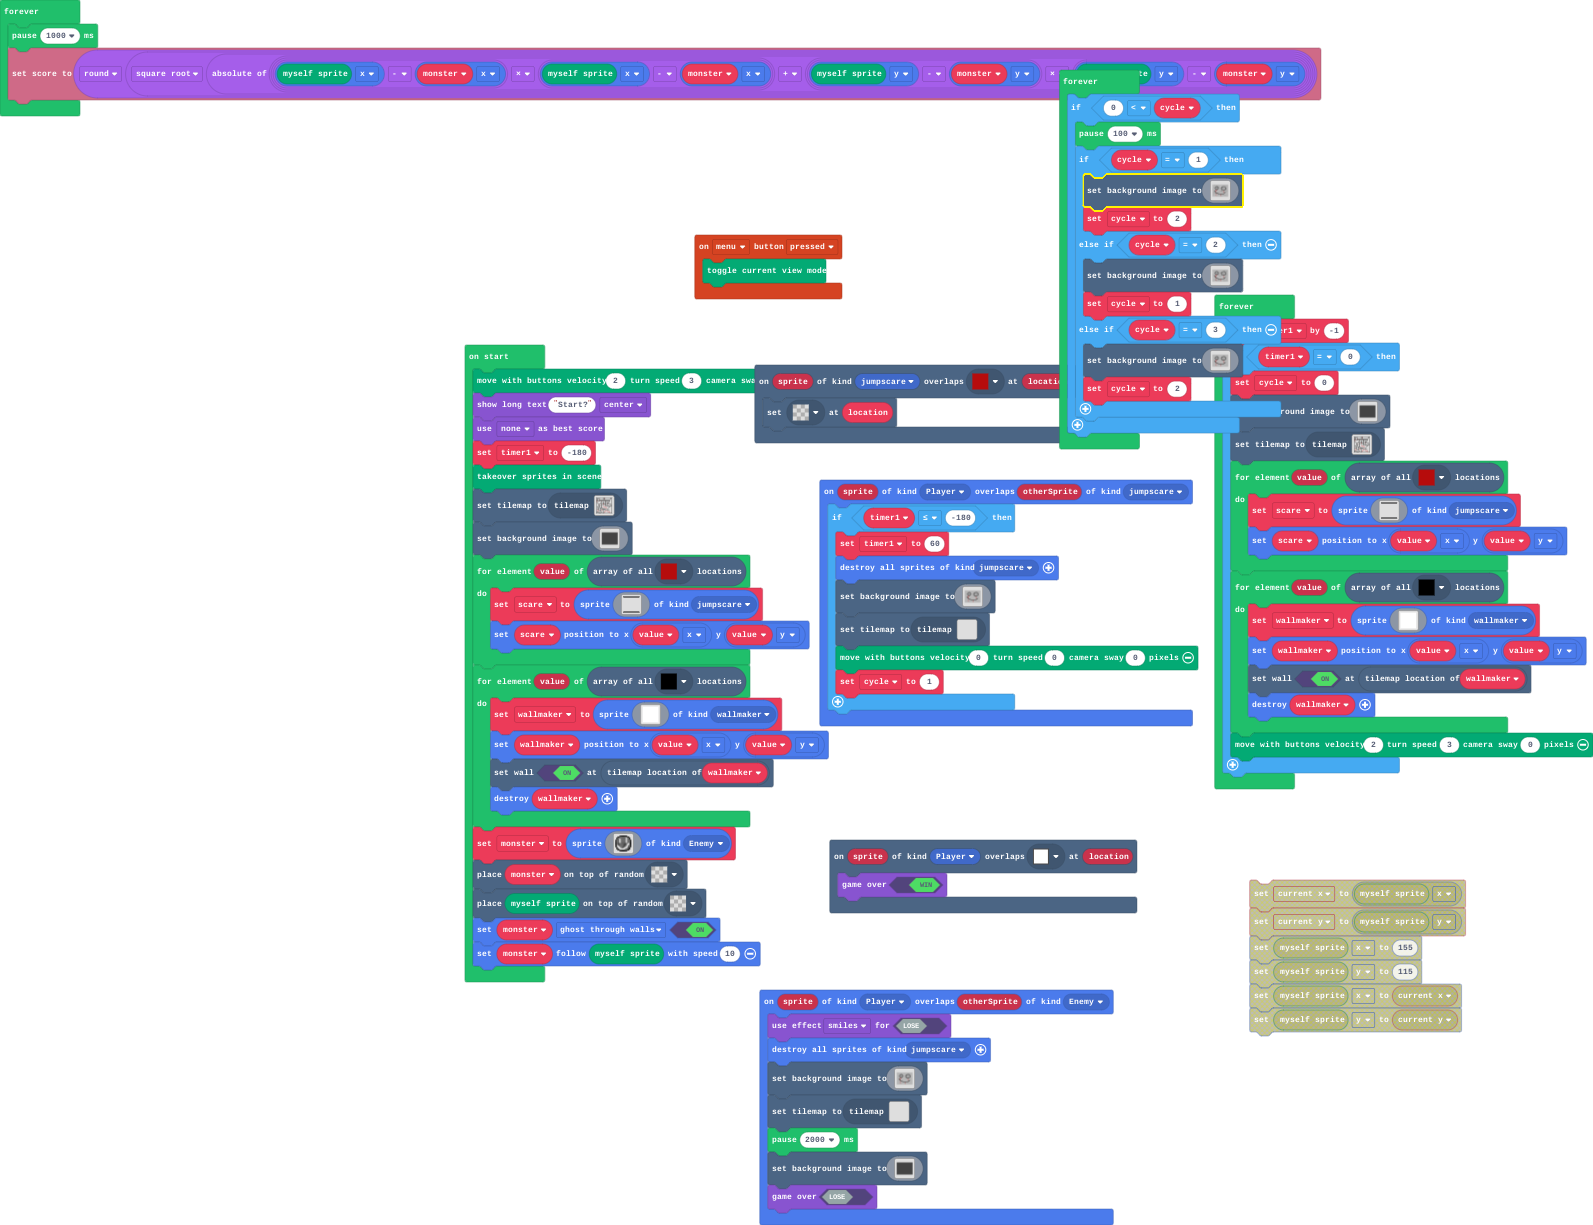
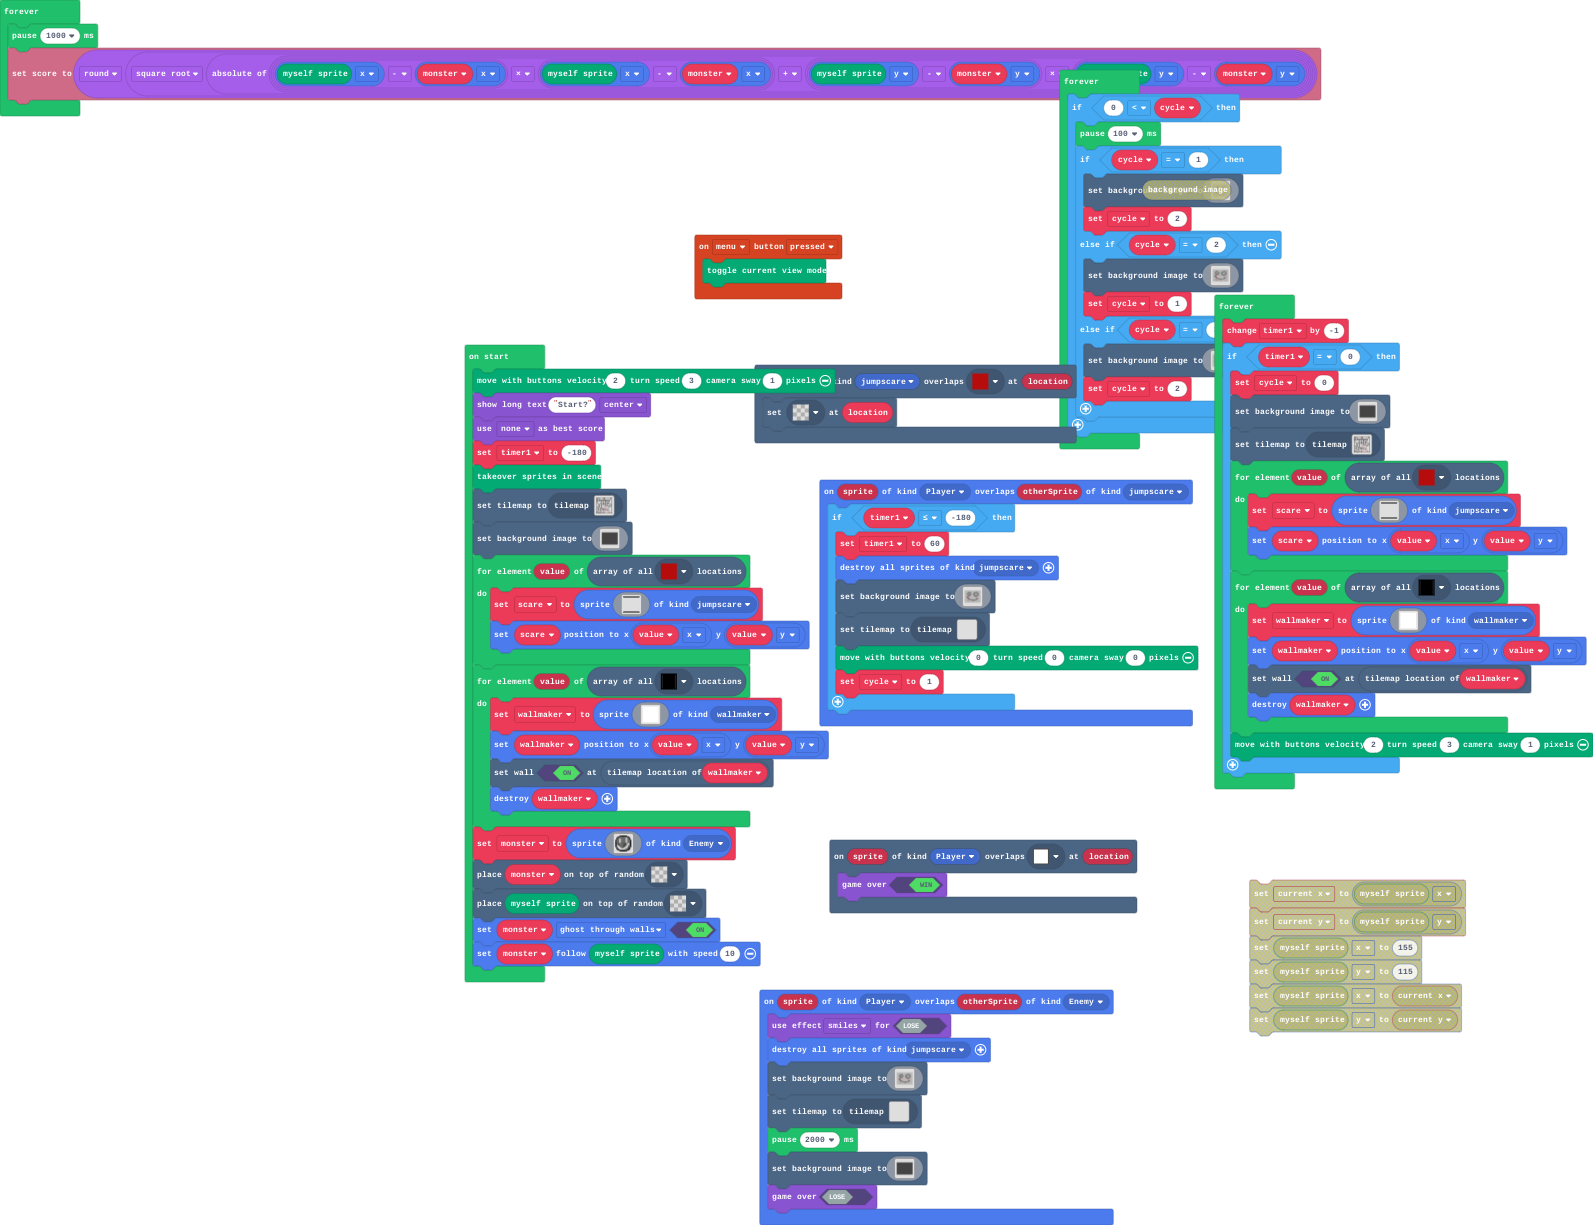
Update main.blocks, main.ts, tilemap.g.jres, tilemap.g.ts

diff --git a/tilemap.g.ts b/tilemap.g.ts
@@ -5,9 +5,9 @@ namespace myTiles {
     //% fixedInstance jres blockIdentity=images._tile
     export const tile2 = image.ofBuffer(hex``);
     //% fixedInstance jres blockIdentity=images._tile
-    export const tile1 = image.ofBuffer(hex``);
-    //% fixedInstance jres blockIdentity=images._tile
     export const tile3 = image.ofBuffer(hex``);
+    //% fixedInstance jres blockIdentity=images._tile
+    export const tile1 = image.ofBuffer(hex``);
 
     helpers._registerFactory("tilemap", function(name: string) {
         switch(helpers.stringTrim(name)) {
@@ -68,59 +68,6 @@ namespace myTiles {
 . . . . . . . . . . . . . . . . 
 . . . . . . . . . . . . . . . . 
 `, [myTiles.transparency16], TileScale.Sixteen);
-            case "level1":
-            case "level1":return tiles.createTilemap(hex`3200320001010101010101010101010101010101010101010101010101010101010101010101010101010101010101010101010101010100000000000000000000000000000000000000000001000000020000000000000000000000000000000000000000000001010000000001000000010000000000000000000000000100000001000000000000000000000000000000000000010000000101000000000100000001000000000000000000000000010000000100000000000000000000000000000000000001000000010100000000010000000100000000000000000000000001000000010000000000000000000000000000000000010000000001010300000001000000010000000000000000000000000100000001000000000000000000000000000000000001000000000101010101010100000001000000000000000000000000010000000200000000000000000000000000000000010000000000010100000000010000000101010101010101010101010101010101010101010101010101010101010101000001000000000001010000000001000000000002000000000000000000000000000000000000000000000000000000000000010000000000000101020000000100000000000200000000000000000000000000000000000000000000000000000000000001000000000000010100010101010101010101010101010101010101010101010101010101010101010101010101010101000100000000000001010000000000000000000000000000000200000000000000000000000001000000000000000000000001000000000000000101000002000000000000000000000000010000000000000000000000000100000000000000000000000100000000000000010100000200000000000000000000000001000000000000000000000000010000000001000000000001000000000000000001010000000000000000000000000000000100000000000001000000000001000000000100000000000100000000000000000101000100000000000000000000000000010000000000000100000000000100000000010000000001000000000000000000010100000101000000000000000000000100000000000000010000000000010000000001010100000000000000000000000001010000000001000000000000000001000000000000000001000000000001000000000100000101000000000000000000000101000000000001000000000000010101010101010101010101010101010100000000010000000001010000000000000000010100000000000001010000000100000000000000000000020000000000010000000001000200000000010100000000000001010000000000000000010001000000000001000000000002000000000001000000000100000001000000000101000000000101000000000000000000010000000000000100000000000200000000000100000000010001010000000000000001010000010100000000000000000100000200000000010000010101010101010101010000000001010000000000000000000000000001010000000000000001000000000000000001000000000000000000000301000000010000000000000000000000000000000101000000000000010000000000000000000100000000000000000000000100000000000000000000000000000000000000010100000000000101010101010101000000010000000000000000000000010000000000000000000000010101010101010101010000000000000000000001000000000001000000000000000000000001000001010101010101010100000000000000030101000000000000000000000100000000000100000000000000000000000000000000000000000000000000000100000000010100000000000000000000010000000000010000000002020000000000000000000000000000000000000001000000000001010000010100000000000000000000000001000000000000020202000000000000000000000000000000010000000000000101000000000101010100000000000000000100000000000000000002020000000000000000000000000100000000000000010100000000000100000101010000000000010000000000000000000000020202000000000000000101000000000000000001010000000000010000000000010101010000000000000000000000000000000002020000000001000000000000000000000101000000000000010000000000000000010101000000000000000000000000000000000000010000000000000000000000010100000000000001000000000001000000000001010100000000000000000000000000000100000000000000000000000001010000010000000001000000000100000000000000000101010100000000000000000001000000000000000000000000000101000000010100000100000000010000000000000000000000000101010000000000000000000000000000000000000000010100000000000100000100000001000001010101010101010101010101010101010000000000000000000000000000000001010000000000000100000000000100000000020000000000000000000000000000010101000000000000000000000000000101000002000000000101000000010000000002000000000000000000000000000000000001010101000000000000000000010100000002000000000001000001000000000200000001000000000000000200000000000000000001010000000000000001010000000002020000000001000100000000000000000100000000000002000000000000000000000000000000000000000101000000000000020000000001010000000000000000010000000000020000000002020000000000000000000000000000010100000000000000000000000000010000000000000001000000000002000000000000020200000000000000000000000001010101000000000000000000000000010000000000000100000000020000000000000000000202020000000000000000000101000001010100000000000000000000010100000000010000000200000000000000000000000000020200000000000000010100000000000101010100000000000000000100000001000002000000000000000000000000000000000202000000000001010000000000000000000101010000000000000000000100000000000000000000000000000000000000000000000000000101000000000000000000000000010103000000000000010000000000000000000000000000000000000000000000000000010101010101010101010101010101010101010101010101010101010101010101010101010101010101010101010101010101`, img`
-..................................................
-..................................................
-..................................................
-..................................................
-..................................................
-..................................................
-..................................................
-..................................................
-..................................................
-..................................................
-..................................................
-..................................................
-..................................................
-..................................................
-..................................................
-..................................................
-..................................................
-..................................................
-..................................................
-..................................................
-..................................................
-..................................................
-..................................................
-..................................................
-..................................................
-..................................................
-..................................................
-..................................................
-..................................................
-..................................................
-..................................................
-..................................................
-..................................................
-..................................................
-..................................................
-..................................................
-..................................................
-..................................................
-..................................................
-..................................................
-..................................................
-..................................................
-..................................................
-..................................................
-..................................................
-..................................................
-..................................................
-..................................................
-..................................................
-..................................................
-`, [myTiles.transparency16,myTiles.tile1,myTiles.tile2,myTiles.tile3], TileScale.Sixteen);
             case "level5":
             case "level5":return tiles.createTilemap(hex`1000100000000000000000000000000000000000000000000000000000000000000000000000000000000000000000000000000000000000000000000000000000000000000000000000000000000000000000000000000000000000000000000000000000000000000000000000000000000000000000000000000000000000000000000000000000000000000000000000000000000000000000000000000000000000000000000000000000000000000000000000000000000000000000000000000000000000000000000000000000000000000000000000000000000000000000000000000000000000000000000000000000000000000000000000000000000000`, img`
 . . . . . . . . . . . . . . . . 
@@ -311,6 +258,59 @@ namespace myTiles {
 . . . . . . . . . . . . . . . . 
 . . . . . . . . . . . . . . . . 
 `, [myTiles.transparency16], TileScale.Sixteen);
+            case "level1":
+            case "level1":return tiles.createTilemap(hex`3200320001010101010101010101010101010101010101010101010101010101010101010101010101010101010101010101010101010100000000000000000000000000000000000000000001000000020000000000000000000000000000000000000000000001010000000001000000010000000000000000000000000100000001000000000000000000000000000000000000010000000101000000000100000001000000000000000000000000010000000100000000000000000000000000000000000001000000010100000000010000000100000000000000000000000001000000010000000000000000000000000000000000010000000001010300000001000000010000000000000000000000000100000001000000000000000000000000000000000001000000000101010101010100000001000000000000000000000000010000000200000000000000000000000000000000010000000000010100000000010000000101010101010101010101010101010101010101010101010101010101010101000001000000000001010000000001000000000002000000000000000000000000000000000000000000000000000000000000010000000000000101020000000100000000000200000000000000000000000000000000000000000000000000000000000001000000000000010100010101010101010101010101010101010101010101010101010101010101010101010101010101000100000000000001010000000000000000000000000000000200000000000000000000000001000000000000000000000001000000000000000101000002000000000000000000000000010000000000000000000000000100000000000000000000000100000000000000010100000200000000000000000000000001000000000000000000000000010000000001000000000001000000000000000001010000000000000000000000000000000100000000000001000000000001000000000100000000000100000000000000000101000100000000000000000000000000010000000000000100000000000100000000010000000001000000000000000000010100000101000000000000000000000100000000000000010000000000010000000001010100000000000000000000000001010000000001000000000000000001000000000000000001000000000001000000000100000101000000000000000000000101000000000001000000000000010101010101010101010101010101010100000000010000000001010000000000000000010100000000000001010000000100000000000000000000020000000000010000000001000200000000010100000000000001010000000000000000010001000000000001000000000002000000000001000000000100000001000000000101000000000101000000000000000000010000000000000100000000000200000000000100000000010001010000000000000001010000010100000000000000000100000200000000010000010101010101010101010000000001010000000000000000000000000001010000000000000001000000000000000001000000000000000000000301000000010000000000000000000000000000000101000000000000010000000000000000000100000000000000000000000100000000000000000000000000000000000000010100000000000101010101010101000000010000000000000000000000010000000000000000000000010101010101010101010000000000000000000001000000000001000000000000000000000001000001010101010101010100000000000000030101000000000000000000000100000000000100000000000000000000000000000000000000000000000000000100000000010100000000000000000000010000000000010000000002020000000000000000000000000000000000000001000000000001010000010100000000000000000000000001000000000000020202000000000000000000000000000000010000000000000101000000000101010100000000000000000100000000000000000002020000000000000000000000000100000000000000010100000000000100000101010000000000010000000000000000000000020202000000000000000101000000000000000001010000000000010000000000010101010000000000000000000000000000000002020000000001000000000000000000000101000000000000010000000000000000010101000000000000000000000000000000000000010000000000000000000000010100000000000001000000000001000000000001010100000000000000000000000000000100000000000000000000000001010000010000000001000000000100000000000000000101010100000000000000000001000000000000000000000000000101000000010100000100000000010000000000000000000000000101010000000000000000000000000000000000000000010100000000000100000100000001000001010101010101010101010101010101010000000000000000000000000000000001010000000000000100000000000100000000020000000000000000000000000000010101000000000000000000000000000101000002000000000101000000010000000002000000000000000000000000000000000001010101000000000000000000010100000002000000000001000001000000000200000001000000000000000200000000000000000001010000000000000001010000000002020000000001000100000000000000000100000000000002000000000000000000000000000000000000000101000000000000020000000001010000000000000000010000000000020000000002020000000000000000000000000000010100000000000000000000000000010000000000000001000000000002000000000000020200000000000000000000000001010101000000000000000000000000010000000000000100000000020000000000000000000202020000000000000000000101000001010100000000000000000000010100000000010000000200000000000000000000000000020200000000000000010100000000000101010100000000000000000100000001000002000000000000000000000000000000000202000000000001010000000000000000000101010000000000000000000100000000000000000000000000000000000000000000000000000101000000000000000000000000010103000000000000010000000000000000000000000000000000000000000000000000010101010101010101010101010101010101010101010101010101010101010101010101010101010101010101010101010101`, img`
+..................................................
+..................................................
+..................................................
+..................................................
+..................................................
+..................................................
+..................................................
+..................................................
+..................................................
+..................................................
+..................................................
+..................................................
+..................................................
+..................................................
+..................................................
+..................................................
+..................................................
+..................................................
+..................................................
+..................................................
+..................................................
+..................................................
+..................................................
+..................................................
+..................................................
+..................................................
+..................................................
+..................................................
+..................................................
+..................................................
+..................................................
+..................................................
+..................................................
+..................................................
+..................................................
+..................................................
+..................................................
+..................................................
+..................................................
+..................................................
+..................................................
+..................................................
+..................................................
+..................................................
+..................................................
+..................................................
+..................................................
+..................................................
+..................................................
+..................................................
+`, [myTiles.transparency16,myTiles.tile1,myTiles.tile2,myTiles.tile3], TileScale.Sixteen);
         }
         return null;
     })
@@ -320,10 +320,10 @@ namespace myTiles {
             case "transparency16":return transparency16;
             case "jumpscare":
             case "tile2":return tile2;
-            case "black":
-            case "tile1":return tile1;
             case "myTile":
             case "tile3":return tile3;
+            case "black":
+            case "tile1":return tile1;
         }
         return null;
     })

diff --git a/main.ts b/main.ts
@@ -155,7 +155,7 @@ let cycle = 0
 let wallmaker: Sprite = null
 let scare: Sprite = null
 let timer1 = 0
-Render.moveWithController(2, 3, 0)
+Render.moveWithController(2, 3, 1)
 game.showLongText("Start?", DialogLayout.Center)
 game.setGameOverScoringType(game.ScoringType.None)
 timer1 = -180
@@ -522,6 +522,6 @@ forever(function () {
             tiles.setWallAt(wallmaker.tilemapLocation(), true)
             sprites.destroy(wallmaker)
         }
-        Render.moveWithController(2, 3, 0)
+        Render.moveWithController(2, 3, 1)
     }
 })
